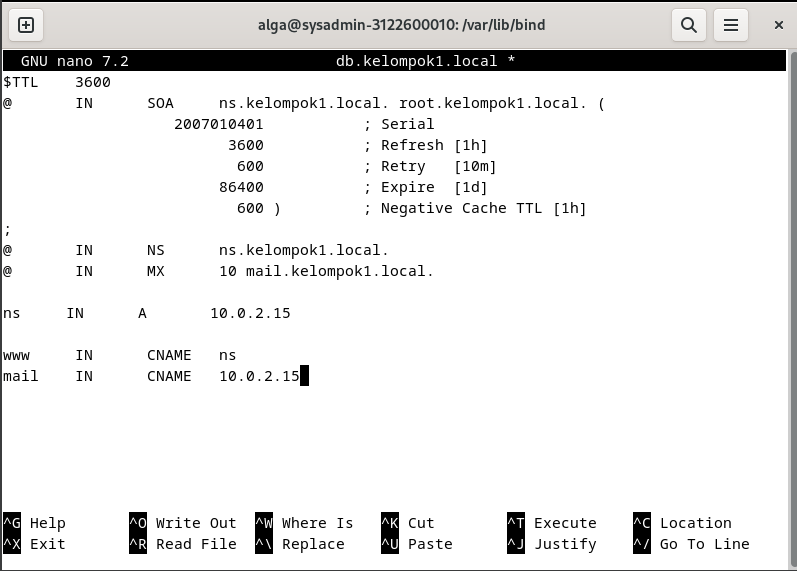
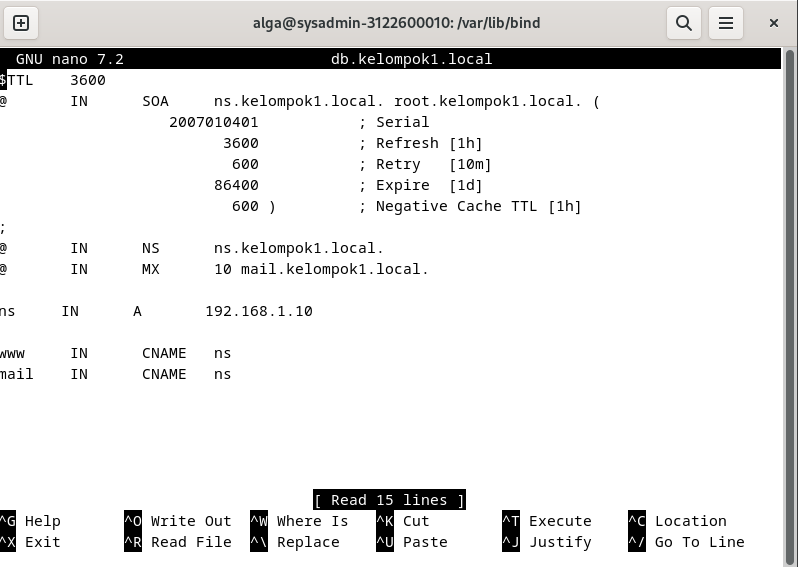
add: config mail server

diff --git a/week-7/readme.md b/week-7/readme.md
@@ -5,6 +5,7 @@
 - [Week 7](#week-7)
   - [Table of Contents](#table-of-contents)
   - [Mail Server](#mail-server)
+    - [Roundcube](#roundcube)
 
 ## Mail Server
 1. Konfigurasi db.kelompok1.local.
@@ -124,3 +125,86 @@
 29. Konfigurasi file master.
 
 ![](assets/mail-32.png)
+
+30. Lalu coba jalankan telnet, cek apakah sudah terhubung.
+
+![](assets/mail-35.png)
+
+31. Buka Debian Evolution untuk GUI emailnya dan di sini saya akan mencoba mengirimkan ke kelompok 2.
+
+![](assets/mail-36.png)
+
+![](assets/mail-37.png)
+
+### Roundcube
+1. Install roundcube dengan `suto apt install roundcube`.
+
+![](assets/mail-38.png)
+
+![](assets/mail-39.png)
+
+![](assets/mail-40.png)
+
+2. Lalu kita buat MariaDB database dan user untuk roundcubenya.
+
+![](assets/mail-41.png)
+
+3. Lalu konfigurasi config.inc.php di roundcube.
+
+![](assets/mail-42.png)
+
+4. Konfigurasi apache.conf.
+
+![](assets/mail-43.png)
+
+5. Konfigurasi 000-default.conf.
+
+![](assets/mail-44.png)
+
+6. Lalu rekonfigurasi dengan `sudo dpkg-reconfigure roundcube-core`.
+
+![](assets/mail-45.png)
+
+![](assets/mail-46.png)
+
+![](assets/mail-47.png)
+
+![](assets/mail-48.png)
+
+![](assets/mail-49.png)
+
+![](assets/mail-50.png)
+
+![](assets/mail-51.png)
+
+![](assets/mail-52.png)
+
+![](assets/mail-53.png)
+
+![](assets/mail-54.png)
+
+![](assets/mail-55.png)
+
+![](assets/mail-56.png)
+
+![](assets/mail-57.png)
+
+![](assets/mail-58.png)
+
+![](assets/mail-59.png)
+
+7. Roundcube berhasil terkonfigurasi. Navigasi ke browser dan buka mail.kelompok1.local. Di sini saya login dengan user debian saya.
+
+![](assets/mail-60.png)
+
+8. Terlihat bahwa isi dari Roundcube sudah sama dengan Debian Evolution.
+
+![](assets/mail-61.png)
+
+9. Di sini saya coba kirim ke kelompok 2. 
+
+![](assets/mail-62.png)
+
+11.  Lalu berhasil mendapat balasan.
+
+![](assets/mail-63.png)

diff --git a/week-5/readme.md b/week-5/readme.md
@@ -45,13 +45,17 @@
 
 ![](assets/9.png)
 
-10. Jalankan sudo systemctl restart named.
-11. Jalankan perintah dig.
+10. Konfigurasikan /etc/resolv.conf.
+
+![](assets/13.png)
+
+11. Jalankan sudo systemctl restart named.
+12. Jalankan perintah dig.
   
 ![](assets/11.png)
 
 
-12. Jalankan perintah nslookup.
+13. Jalankan perintah nslookup.
 
 ![](assets/12.png)
 
